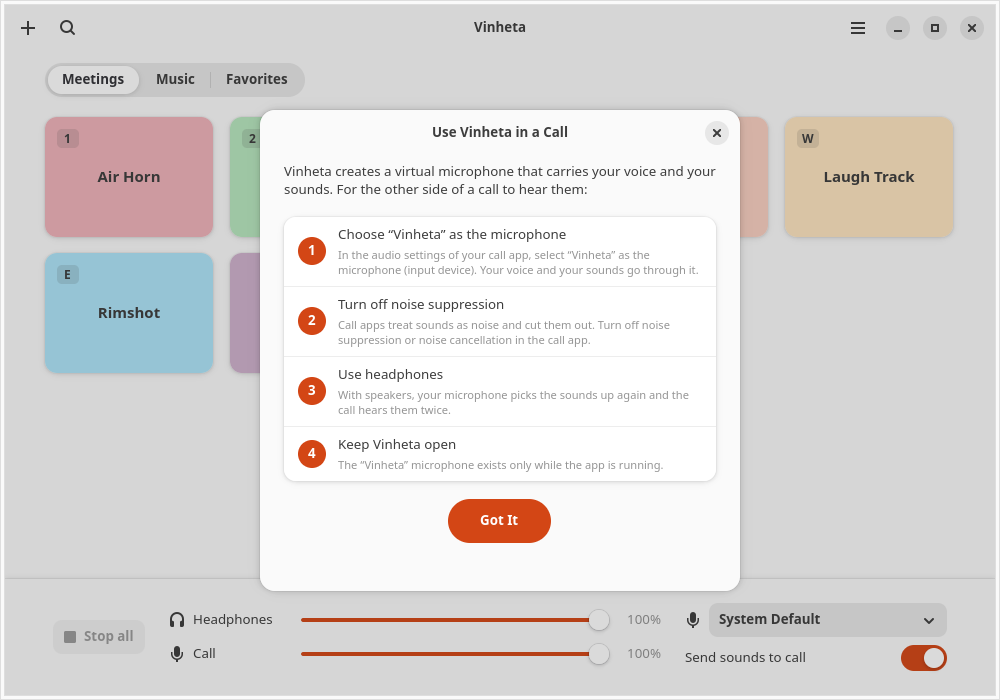
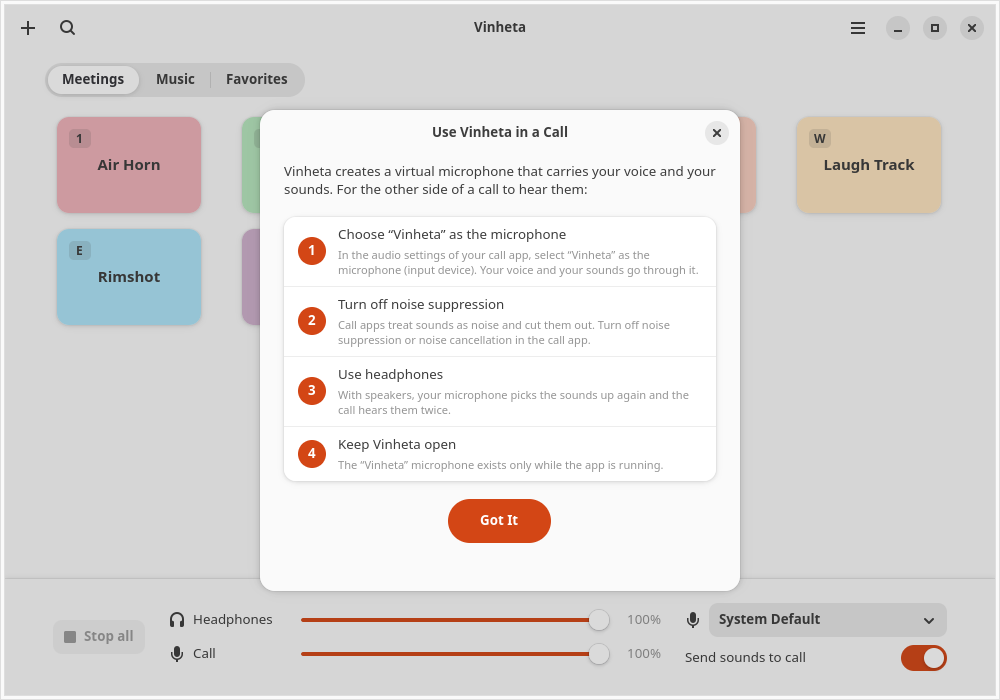
Show a preview picture in the README and update the screenshots
preview.png (1280x640) is also the social preview of the repository. The screenshots of the metainfo are taken again: they still showed the progress bar inside the pad and the preferences without the audio editor.

Changed region(s): [[0.031, 0.15, 0.279, 0.54], [0.713, 0.15, 0.961, 0.36], [0.093, 0.21, 0.155, 0.27]]

diff --git a/docs/translations.md b/docs/translations.md
@@ -15,4 +15,4 @@ scripts/screenshot.sh NAME --lang pt_BR ...   # read the result
 - `xgettext` does not know Rust and reads the `.rs` files as C, with warnings. It has found every call so far; the check compares the number of `gettext(` and `ngettext(` calls of each file with the template.
 - Product names ("Vinheta", "PipeWire") are not translated, the `{}` placeholders and the typographic quotes are kept, and an accelerator underscore must sit on a letter that no other item of the same menu uses.
 - The desktop file and the metainfo are merged with the translations at build time. After a change of the `.po` alone, touch their `.in` files or the build keeps the old ones.
-- The pictures of the metainfo and of the README (`data/screenshots/`) are made by `scripts/metainfo-screenshots.sh`.
+- The pictures of the metainfo (`data/screenshots/`) are made by `scripts/metainfo-screenshots.sh`. `preview.png` (1280x640, the picture of the README and the social preview of the repository) is composed by hand from `main.png` and the icon: redo it when the main window changes.

diff --git a/README.md b/README.md
@@ -2,7 +2,7 @@
 
 A soundboard for GNOME that plays sounds into your calls.
 
-![The main window of Vinheta](data/screenshots/main.png)
+![Vinheta, a soundboard for GNOME that plays sounds into your calls](data/screenshots/preview.png)
 
 Add your folders of sounds, and each one becomes a tab with a pad per sound. Click a pad, or press its key, to play it. While Vinheta runs it provides a virtual microphone named "Vinheta" that carries your voice together with the sounds, so the other side of a call hears both, and you hear the sounds on your own headphones.
 
